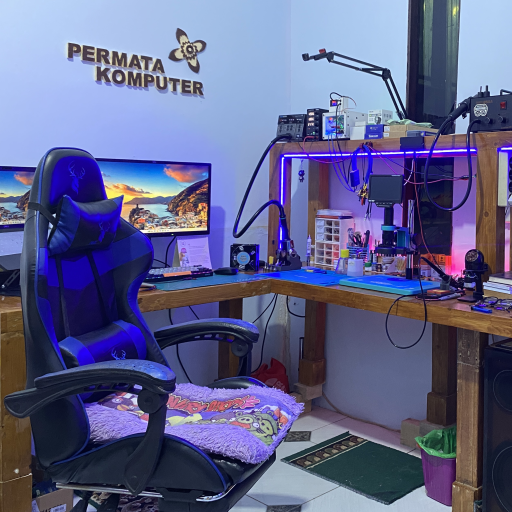
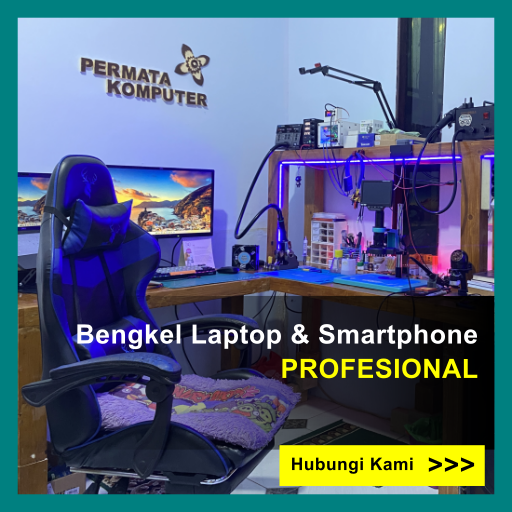
Update seo images

diff --git a/src/App.tsx b/src/App.tsx
@@ -1,61 +1,73 @@
-import React from 'react';
 import { FaWhatsapp } from "react-icons/fa";
+import Config from "./app-config.json";
+import React from "react";
 
 // Styles
-import './styles/Main.sass';
-import './styles/Header.sass';
-import './styles/Banner.sass';
+import "./styles/Main.sass";
+import "./styles/Header.sass";
+import "./styles/Banner.sass";
 
 // Mobile Styles
-import './styles/mobile/Main.sass';
-import './styles/mobile/Header.sass';
-import './styles/mobile/Banner.sass';
+import "./styles/mobile/Main.sass";
+import "./styles/mobile/Header.sass";
+import "./styles/mobile/Banner.sass";
 
 function App() {
-  function openWhatsapp(event: React.MouseEvent<HTMLDivElement, MouseEvent>): void {
-    window.open("https://wa.me/6282324380852?text=Halo%20Permata%20Komputer,%20saya%20ingin%20bertanya%20tentang%20layanan%20perbaikan%20motherboard.", "_blank");
+  function openWhatsapp(
+    event: React.MouseEvent<HTMLDivElement, MouseEvent>,
+  ): void {
+    const endpoint: string = `https://wa.me/${Config.phone}`;
+    const msgParam: string =
+      "Halo%20Permata%20Komputer,%20saya%20ingin%20bertanya%20tentang%20layanan%20perbaikan%20motherboard.";
+    const params: string = `?text=${msgParam}`;
+    window.open(`${endpoint}${params}`, "_blank");
   }
 
   return (
     <div id="App">
       <header>
-        <h1>PERMATA KOMPUTER</h1>
-        <p>Spesialis Perbaikan Motherboard</p>
+        <h1>{Config.navbar.title}</h1>
+        <p>{Config.navbar.subtitle}</p>
       </header>
 
       <div id="banner">
-        <div id="desk-1" style={{ backgroundImage: `url(${process.env.PUBLIC_URL}/pmtkom/desk-1.jpg)` }}></div>
+        <div
+          id="desk-1"
+          style={{
+            backgroundImage: `url(${process.env.PUBLIC_URL}/pmtkom/${Config.navbar.backgroundImage})`,
+          }}
+        ></div>
       </div>
 
       <main>
-        <section id="home">
-          <h1 className='title'>Tentang Kami</h1>
-          <p className="info">
-            Kami menyediakan layanan perbaikan dan pemeliharaan motherboard komputer personal, laptop dan smartphone (android & iPhone).
-          </p>
-          <p className="info">
-            Kami berlokasi di dusun Cikandang, desa Bentarsari, kec. Salem, kab. Brebes, Jawa Tengah.
-          </p>
+        <section id="about">
+          <h1 className="title">Tentang Kami</h1>
+          {Config.about.map((i, x) => (
+            <p className="info" key={x}>
+              {i}
+            </p>
+          ))}
         </section>
-        <section id="contact">
-          <h1 className='title'>Aktivitas Kami</h1>
+        <section id="activity">
+          <h1 className="title">Aktivitas Kami</h1>
           <div id="aktivitas-container">
-            <div id="aktivitas-1" style={{ backgroundImage: `url(${process.env.PUBLIC_URL}/pmtkom/mainboard-asus-x455l.jpg)` }}></div>
-            <div id="aktivitas-2" style={{ backgroundImage: `url(${process.env.PUBLIC_URL}/pmtkom/mainboard-oppo-a5i.jpg)` }}></div>
-            <div id="aktivitas-3" style={{ backgroundImage: `url(${process.env.PUBLIC_URL}/pmtkom/mainboard-asus-x455l-2.jpg)` }}></div>
-            <div id="aktivitas-4" style={{ backgroundImage: `url(${process.env.PUBLIC_URL}/pmtkom/mainboard-dell.jpg)` }}></div>
-            <div id="aktivitas-5" style={{ backgroundImage: `url(${process.env.PUBLIC_URL}/pmtkom/laptop-hp.jpg)` }}></div>
-            <div id="aktivitas-6" style={{ backgroundImage: `url(${process.env.PUBLIC_URL}/pmtkom/hp-infinix.jpg)` }}></div>
-            <div id="aktivitas-7" style={{ backgroundImage: `url(${process.env.PUBLIC_URL}/pmtkom/hp-samsung.jpg)` }}></div>
-            <div id="aktivitas-8" style={{ backgroundImage: `url(${process.env.PUBLIC_URL}/pmtkom/laptop-sony-vaio.jpg)` }}></div>
+            {Config.activities.map((act, x) => (
+              <div
+                key={x}
+                style={{
+                  backgroundImage: `url(${process.env.PUBLIC_URL}/pmtkom/${act})`,
+                }}
+              ></div>
+            ))}
           </div>
         </section>
-        <section id="about">
-          <h1 className='title'>Hubungi Kami</h1>
-          <p className="info">
-            Untuk pertanyaan, konsultasi, atau penjadwalan perbaikan, silakan hubungi kami melalui WhatsApp.
-          </p>
-          <p className="info">Klik tombol di bawah ini untuk memulai percakapan dengan kami.</p>
+        <section id="contact">
+          <h1 className="title">Hubungi Kami</h1>
+          {Config.contact.map((c, x) => (
+            <p className="info" key={x}>
+              {c}
+            </p>
+          ))}
           <div id="whatsapp-btn" onClick={openWhatsapp}>
             <FaWhatsapp size={30} />
             <p>Hubungi Kami</p>
@@ -63,7 +75,8 @@ function App() {
         </section>
 
         <footer>
-          <p>&copy; {new Date().getFullYear()} Permata Komputer
+          <p>
+            &copy; {new Date().getFullYear()} {Config.navbar.title}
             <br />
             All rights reserved
           </p>
